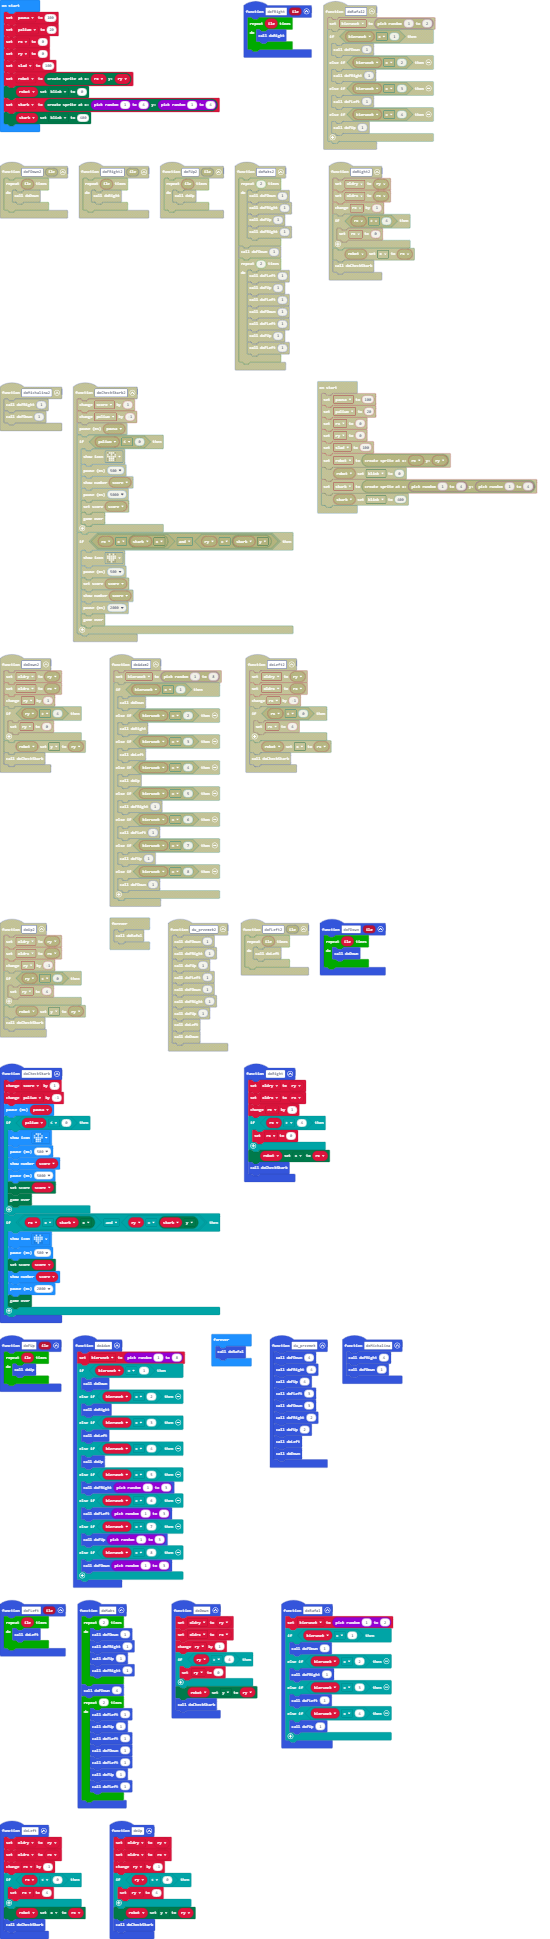
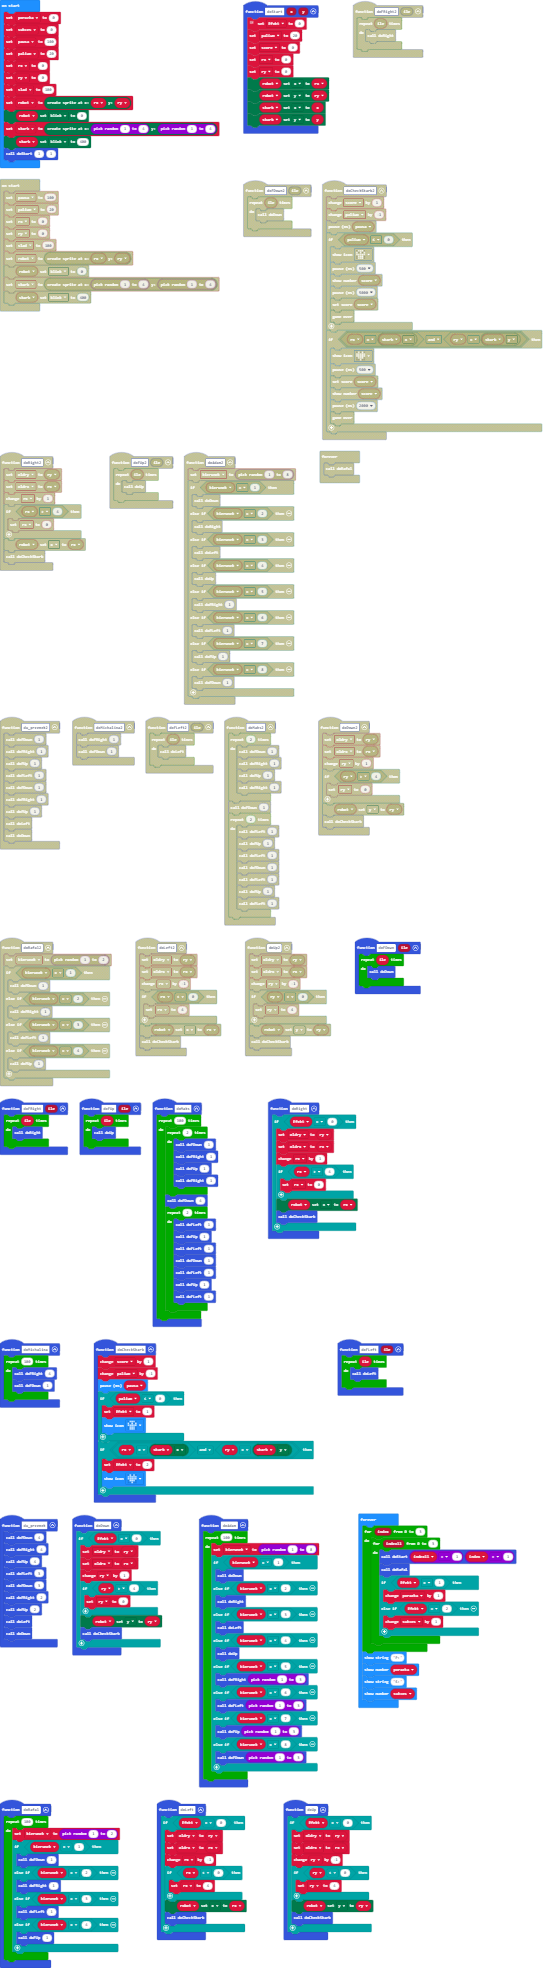
Update main.blocks, main.ts

diff --git a/main.ts b/main.ts
@@ -1,3 +1,17 @@
+function doStart (x: number, y: number) {
+    // 0-Puste
+    // 1-Brakło paliwa
+    // 2-Wygrałeś
+    Efekt = 0
+    paliwo = 20
+    score = 0
+    rx = 0
+    ry = 0
+    robot.set(LedSpriteProperty.X, rx)
+    robot.set(LedSpriteProperty.Y, ry)
+    skarb.set(LedSpriteProperty.X, x)
+    skarb.set(LedSpriteProperty.Y, y)
+}
 function doFDown (ile: number) {
     for (let index = 0; index < ile; index++) {
         doDown()
@@ -14,56 +28,54 @@ function doFUp (ile: number) {
     }
 }
 function doMaks () {
-    for (let index = 0; index < 2; index++) {
-        doFDown(1)
-        doFRight(1)
-        doFUp(1)
-        doFRight(1)
-    }
-    doFDown(4)
-    for (let index = 0; index < 2; index++) {
-        doFLeft(1)
-        doFUp(1)
-        doFLeft(1)
-        doFDown(1)
-        doFLeft(1)
-        doFUp(1)
-        doFLeft(1)
+    for (let index = 0; index < 100; index++) {
+        for (let index = 0; index < 2; index++) {
+            doFDown(1)
+            doFRight(1)
+            doFUp(1)
+            doFRight(1)
+        }
+        doFDown(4)
+        for (let index = 0; index < 2; index++) {
+            doFLeft(1)
+            doFUp(1)
+            doFLeft(1)
+            doFDown(1)
+            doFLeft(1)
+            doFUp(1)
+            doFLeft(1)
+        }
     }
 }
 function doRight () {
-    oldry = ry
-    oldrx = rx
-    rx += 1
-    if (rx > 4) {
-        rx = 0
+    if (Efekt == 0) {
+        oldry = ry
+        oldrx = rx
+        rx += 1
+        if (rx > 4) {
+            rx = 0
+        }
+        robot.set(LedSpriteProperty.X, rx)
+        doCheckSkarb()
     }
-    robot.set(LedSpriteProperty.X, rx)
-    doCheckSkarb()
 }
 function doMichalina () {
-    doFRight(4)
-    doFDown(1)
+    for (let index = 0; index < 100; index++) {
+        doFRight(4)
+        doFDown(1)
+    }
 }
 function doCheckSkarb () {
     score += 1
     paliwo += -1
     basic.pause(pausa)
     if (paliwo <= 0) {
+        Efekt = 1
         basic.showIcon(IconNames.Skull)
-        basic.pause(500)
-        basic.showNumber(score)
-        basic.pause(5000)
-        game.setScore(score)
-        game.gameOver()
     }
     if (rx == skarb.get(LedSpriteProperty.X) && ry == skarb.get(LedSpriteProperty.Y)) {
+        Efekt = 2
         basic.showIcon(IconNames.Heart)
-        basic.pause(500)
-        game.setScore(score)
-        basic.showNumber(score)
-        basic.pause(2000)
-        game.gameOver()
     }
 }
 function doFLeft (ile: number) {
@@ -83,77 +95,90 @@ function du_przemek () {
     doDown()
 }
 function doDown () {
-    oldry = ry
-    oldrx = rx
-    ry += 1
-    if (ry > 4) {
-        ry = 0
+    if (Efekt == 0) {
+        oldry = ry
+        oldrx = rx
+        ry += 1
+        if (ry > 4) {
+            ry = 0
+        }
+        robot.set(LedSpriteProperty.Y, ry)
+        doCheckSkarb()
     }
-    robot.set(LedSpriteProperty.Y, ry)
-    doCheckSkarb()
 }
 function doAdam () {
-    kierunek = randint(1, 8)
-    if (kierunek == 1) {
-        doDown()
-    } else if (kierunek == 2) {
-        doRight()
-    } else if (kierunek == 3) {
-        doLeft()
-    } else if (kierunek == 4) {
-        doUp()
-    } else if (kierunek == 5) {
-        doFRight(randint(1, 3))
-    } else if (kierunek == 6) {
-        doFLeft(randint(1, 3))
-    } else if (kierunek == 7) {
-        doFUp(randint(1, 3))
-    } else if (kierunek == 8) {
-        doFDown(randint(1, 3))
+    for (let index = 0; index < 100; index++) {
+        kierunek = randint(1, 8)
+        if (kierunek == 1) {
+            doDown()
+        } else if (kierunek == 2) {
+            doRight()
+        } else if (kierunek == 3) {
+            doLeft()
+        } else if (kierunek == 4) {
+            doUp()
+        } else if (kierunek == 5) {
+            doFRight(randint(1, 3))
+        } else if (kierunek == 6) {
+            doFLeft(randint(1, 3))
+        } else if (kierunek == 7) {
+            doFUp(randint(1, 3))
+        } else if (kierunek == 8) {
+            doFDown(randint(1, 3))
+        }
     }
 }
 function doRafal () {
-    kierunek = randint(1, 2)
-    if (kierunek == 1) {
-        doFDown(1)
-    } else if (kierunek == 2) {
-        doFRight(1)
-    } else if (kierunek == 3) {
-        doFLeft(1)
-    } else if (kierunek == 4) {
-        doFUp(1)
+    for (let index = 0; index < 100; index++) {
+        kierunek = randint(1, 2)
+        if (kierunek == 1) {
+            doFDown(1)
+        } else if (kierunek == 2) {
+            doFRight(1)
+        } else if (kierunek == 3) {
+            doFLeft(1)
+        } else if (kierunek == 4) {
+            doFUp(1)
+        }
     }
 }
 function doLeft () {
-    oldry = ry
-    oldrx = rx
-    rx += -1
-    if (rx < 0) {
-        rx = 4
+    if (Efekt == 0) {
+        oldry = ry
+        oldrx = rx
+        rx += -1
+        if (rx < 0) {
+            rx = 4
+        }
+        robot.set(LedSpriteProperty.X, rx)
+        doCheckSkarb()
     }
-    robot.set(LedSpriteProperty.X, rx)
-    doCheckSkarb()
 }
 function doUp () {
-    oldry = ry
-    oldrx = rx
-    ry += -1
-    if (ry < 0) {
-        ry = 4
+    if (Efekt == 0) {
+        oldry = ry
+        oldrx = rx
+        ry += -1
+        if (ry < 0) {
+            ry = 4
+        }
+        robot.set(LedSpriteProperty.Y, ry)
+        doCheckSkarb()
     }
-    robot.set(LedSpriteProperty.Y, ry)
-    doCheckSkarb()
 }
 let kierunek = 0
-let score = 0
 let oldrx = 0
 let oldry = 0
+let score = 0
+let Efekt = 0
 let skarb: game.LedSprite = null
 let robot: game.LedSprite = null
 let ry = 0
 let rx = 0
 let paliwo = 0
 let pausa = 0
+let porazka = 0
+let sukces = 0
 pausa = 100
 paliwo = 20
 rx = 0
@@ -163,6 +188,21 @@ robot = game.createSprite(rx, ry)
 robot.set(LedSpriteProperty.Blink, 0)
 skarb = game.createSprite(randint(1, 4), randint(1, 4))
 skarb.set(LedSpriteProperty.Blink, 400)
+doStart(1, 1)
 basic.forever(function () {
-    doRafal()
+    for (let index = 0; index <= 3; index++) {
+        for (let index11 = 0; index11 <= 3; index11++) {
+            doStart(index11 + 1, index + 1)
+            doRafal()
+            if (Efekt == 1) {
+                porazka += 1
+            } else if (Efekt == 2) {
+                sukces += 1
+            }
+        }
+    }
+    basic.showString("P:")
+    basic.showNumber(porazka)
+    basic.showString("S:")
+    basic.showNumber(sukces)
 })
